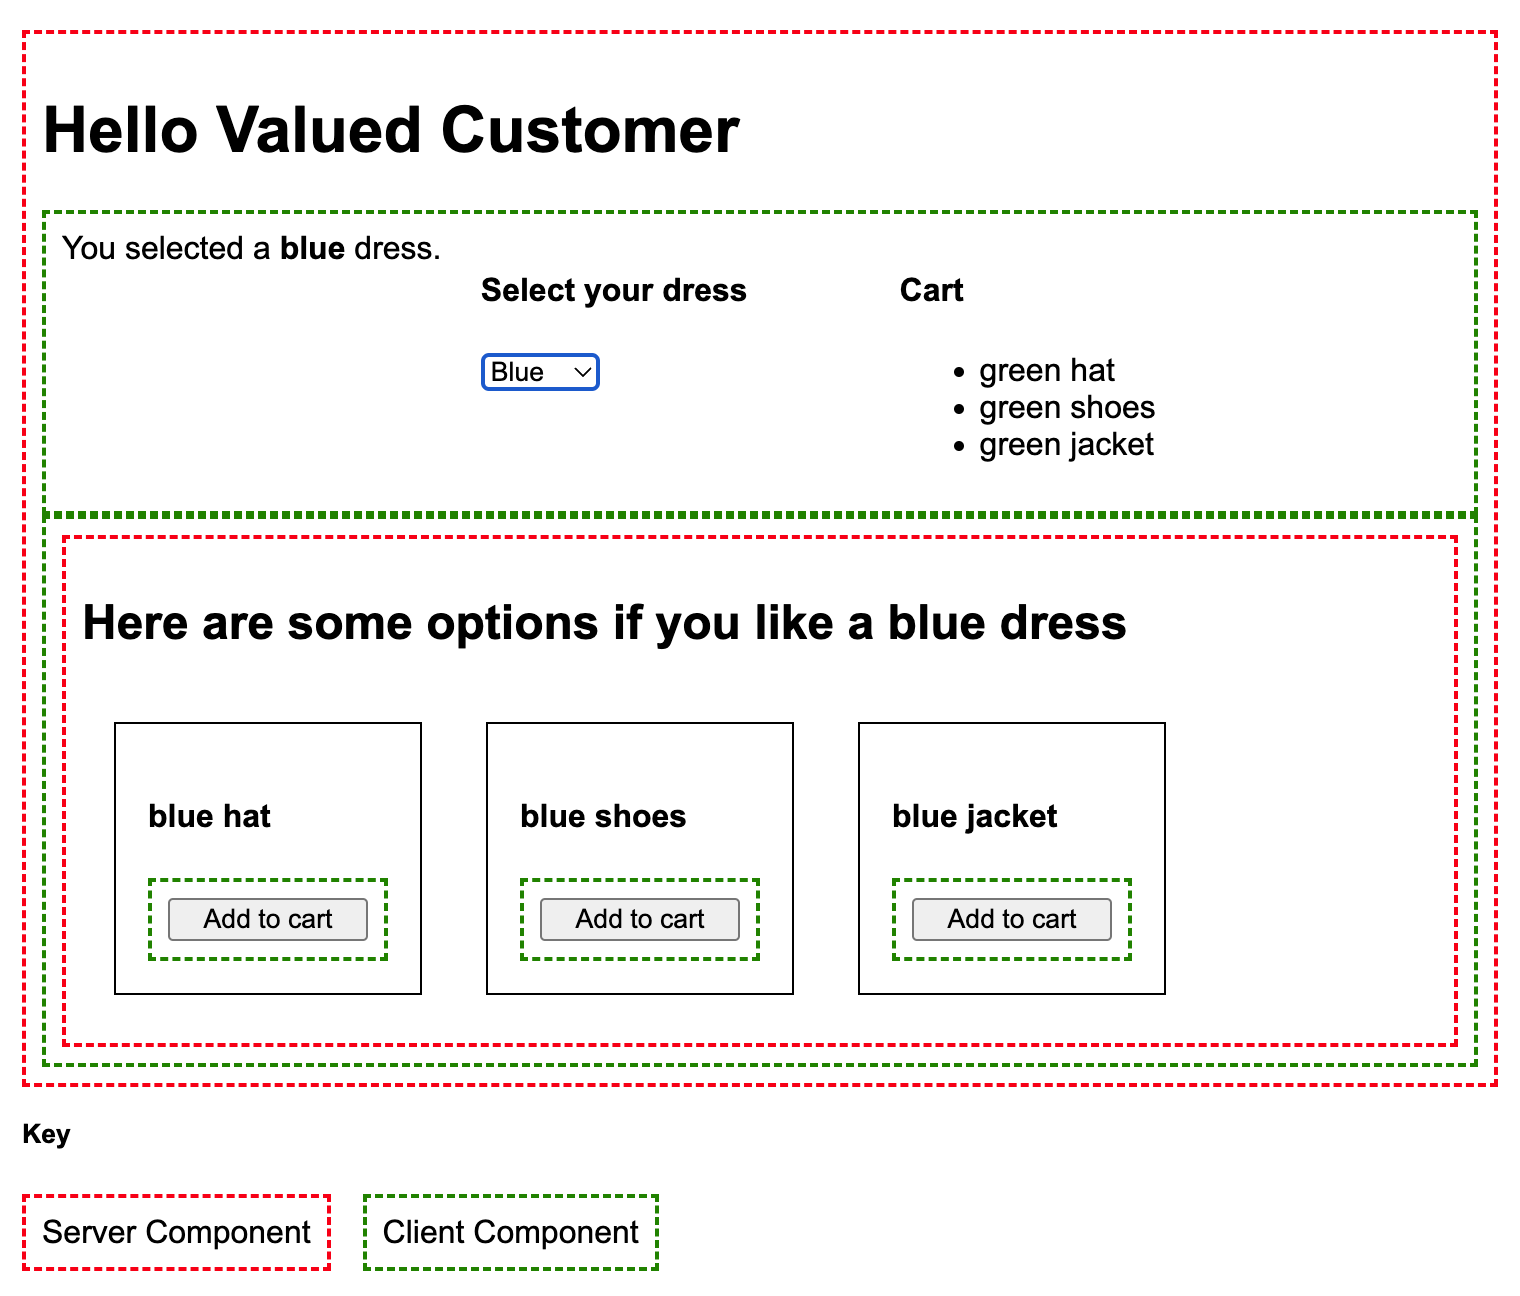
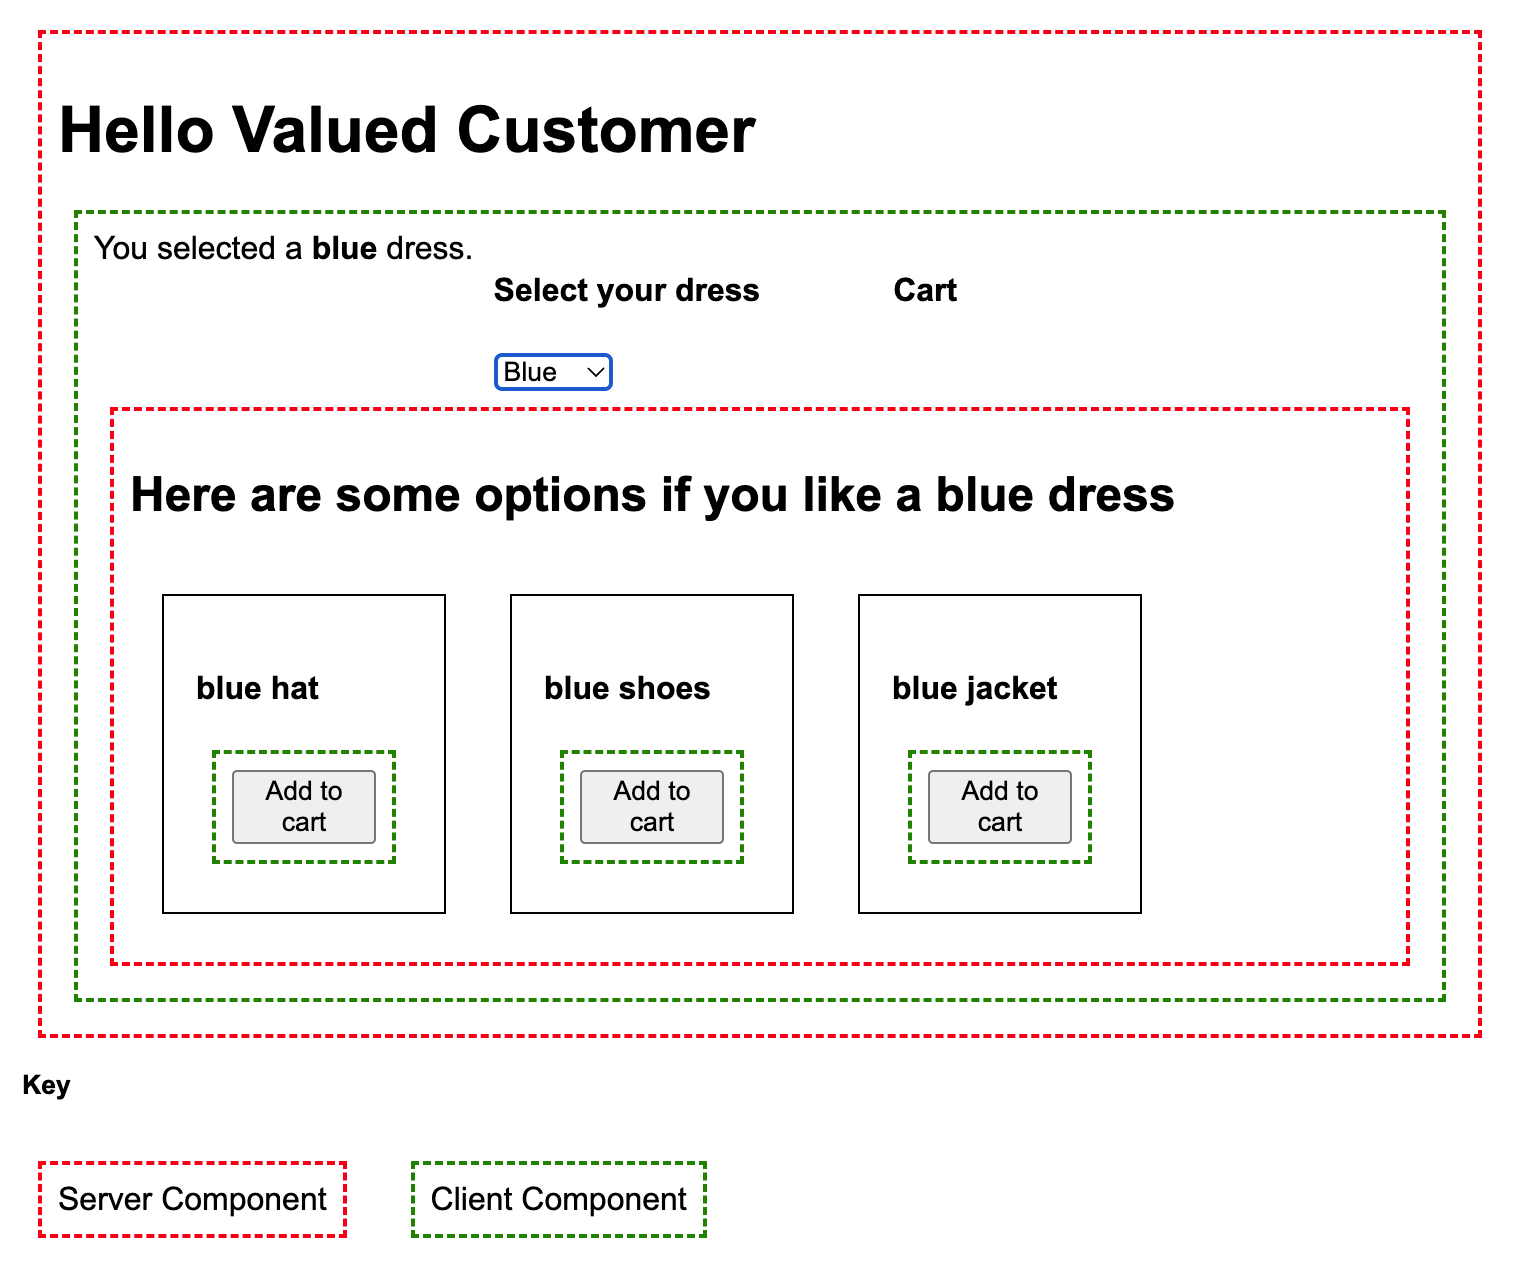
Simplifying example even further

diff --git a/src/DressSelector.tsx b/src/DressSelector.tsx
@@ -2,48 +2,60 @@
 
 import { ClientComponent } from "./ComponentWrappers.js";
 import { useDress, useCart } from "./store.js";
+import { useState, useEffect } from "react";
+import { serve } from "wakuwork/client";
+
+const ProductCarousel = serve<{ color: string }>("ProductCarousel");
 
 export default function () {
   const [dress, setDress] = useDress();
   const [cart] = useCart();
 
+  const [mounted, setMounted] = useState(false);
+  useEffect(() => {
+    setMounted(true);
+  }, []);
+
   return (
-    <ClientComponent
-      style={{
-        display: "flex",
-      }}
-    >
+    <ClientComponent>
       <div
         style={{
-          flex: 0.3,
+          display: "flex",
         }}
       >
-        You selected a <strong>{dress}</strong> dress.
+        <div
+          style={{
+            flex: 0.3,
+          }}
+        >
+          You selected a <strong>{dress}</strong> dress.
+        </div>
+        <div
+          style={{
+            flex: 0.3,
+          }}
+        >
+          <h4>Select your dress</h4>
+          <select onChange={(evt) => setDress(evt.target.value)}>
+            <option value="red">Red</option>
+            <option value="blue">Blue</option>
+            <option value="green">Green</option>
+          </select>
+        </div>
+        <div
+          style={{
+            flex: 0.3,
+          }}
+        >
+          <h4>Cart</h4>
+          <ul>
+            {cart.map((product) => (
+              <li key={product}>{product}</li>
+            ))}
+          </ul>
+        </div>
       </div>
-      <div
-        style={{
-          flex: 0.3,
-        }}
-      >
-        <h4>Select your dress</h4>
-        <select onChange={(evt) => setDress(evt.target.value)}>
-          <option value="red">Red</option>
-          <option value="blue">Blue</option>
-          <option value="green">Green</option>
-        </select>
-      </div>
-      <div
-        style={{
-          flex: 0.3,
-        }}
-      >
-        <h4>Cart</h4>
-        <ul>
-          {cart.map((product) => (
-            <li key={product}>{product}</li>
-          ))}
-        </ul>
-      </div>
+      {mounted && <ProductCarousel color={dress} />}
     </ClientComponent>
   );
 }

diff --git a/src/App.tsx b/src/App.tsx
@@ -1,6 +1,5 @@
 import { ServerComponent, ClientComponent } from "./ComponentWrappers.js";
 import DressSelector from "./DressSelector.js";
-import { Carousel } from "./Carousel.js";
 
 const App = ({ name = "Customer" }) => {
   return (
@@ -15,7 +14,6 @@ const App = ({ name = "Customer" }) => {
       <ServerComponent>
         <h1>Hello {name}</h1>
         <DressSelector />
-        <Carousel />
       </ServerComponent>
 
       <h5

diff --git a/src/ComponentWrappers.tsx b/src/ComponentWrappers.tsx
@@ -10,6 +10,7 @@ export const ServerComponent = ({
       ...style,
       border: "2px dashed red",
       padding: "0.5rem",
+      margin: "0.5rem",
     }}
   >
     {children}
@@ -28,6 +29,7 @@ export const ClientComponent = ({
       ...style,
       border: "2px dashed green",
       padding: "0.5rem",
+      margin: "0.5rem",
     }}
   >
     {children}

diff --git a/entries.ts b/entries.ts
@@ -19,7 +19,7 @@ export const prefetcher: Prefetcher = async (path) => {
           ["App", { name: "Wakuwork" }],
           ["ProductCarousel", { color: "green" }],
         ],
-        clientModules: [(await import("./src/Carousel.js")).Carousel],
+        clientModules: [],
       };
     default:
       return {};

diff --git a/README.md b/README.md
@@ -11,3 +11,5 @@ Within the carousel component, (which is also rendered on the client and listens
 That `ProductCarousel` mocks going to a service to make an async request with recommendations. It then renders those recommendations with product cards that include `AddToCart` buttons.
 
 Those `AddToCart` nested buttons are client components that update the global store to add the product to the cart when the customer clicks on them.
+
+Adding to cart forces a re-render of `DressSelector`, which includes the server-rendered `ProductCarousel` and everything works just fine. The spice continues to flow and the CHOAM company profits have been secured.
